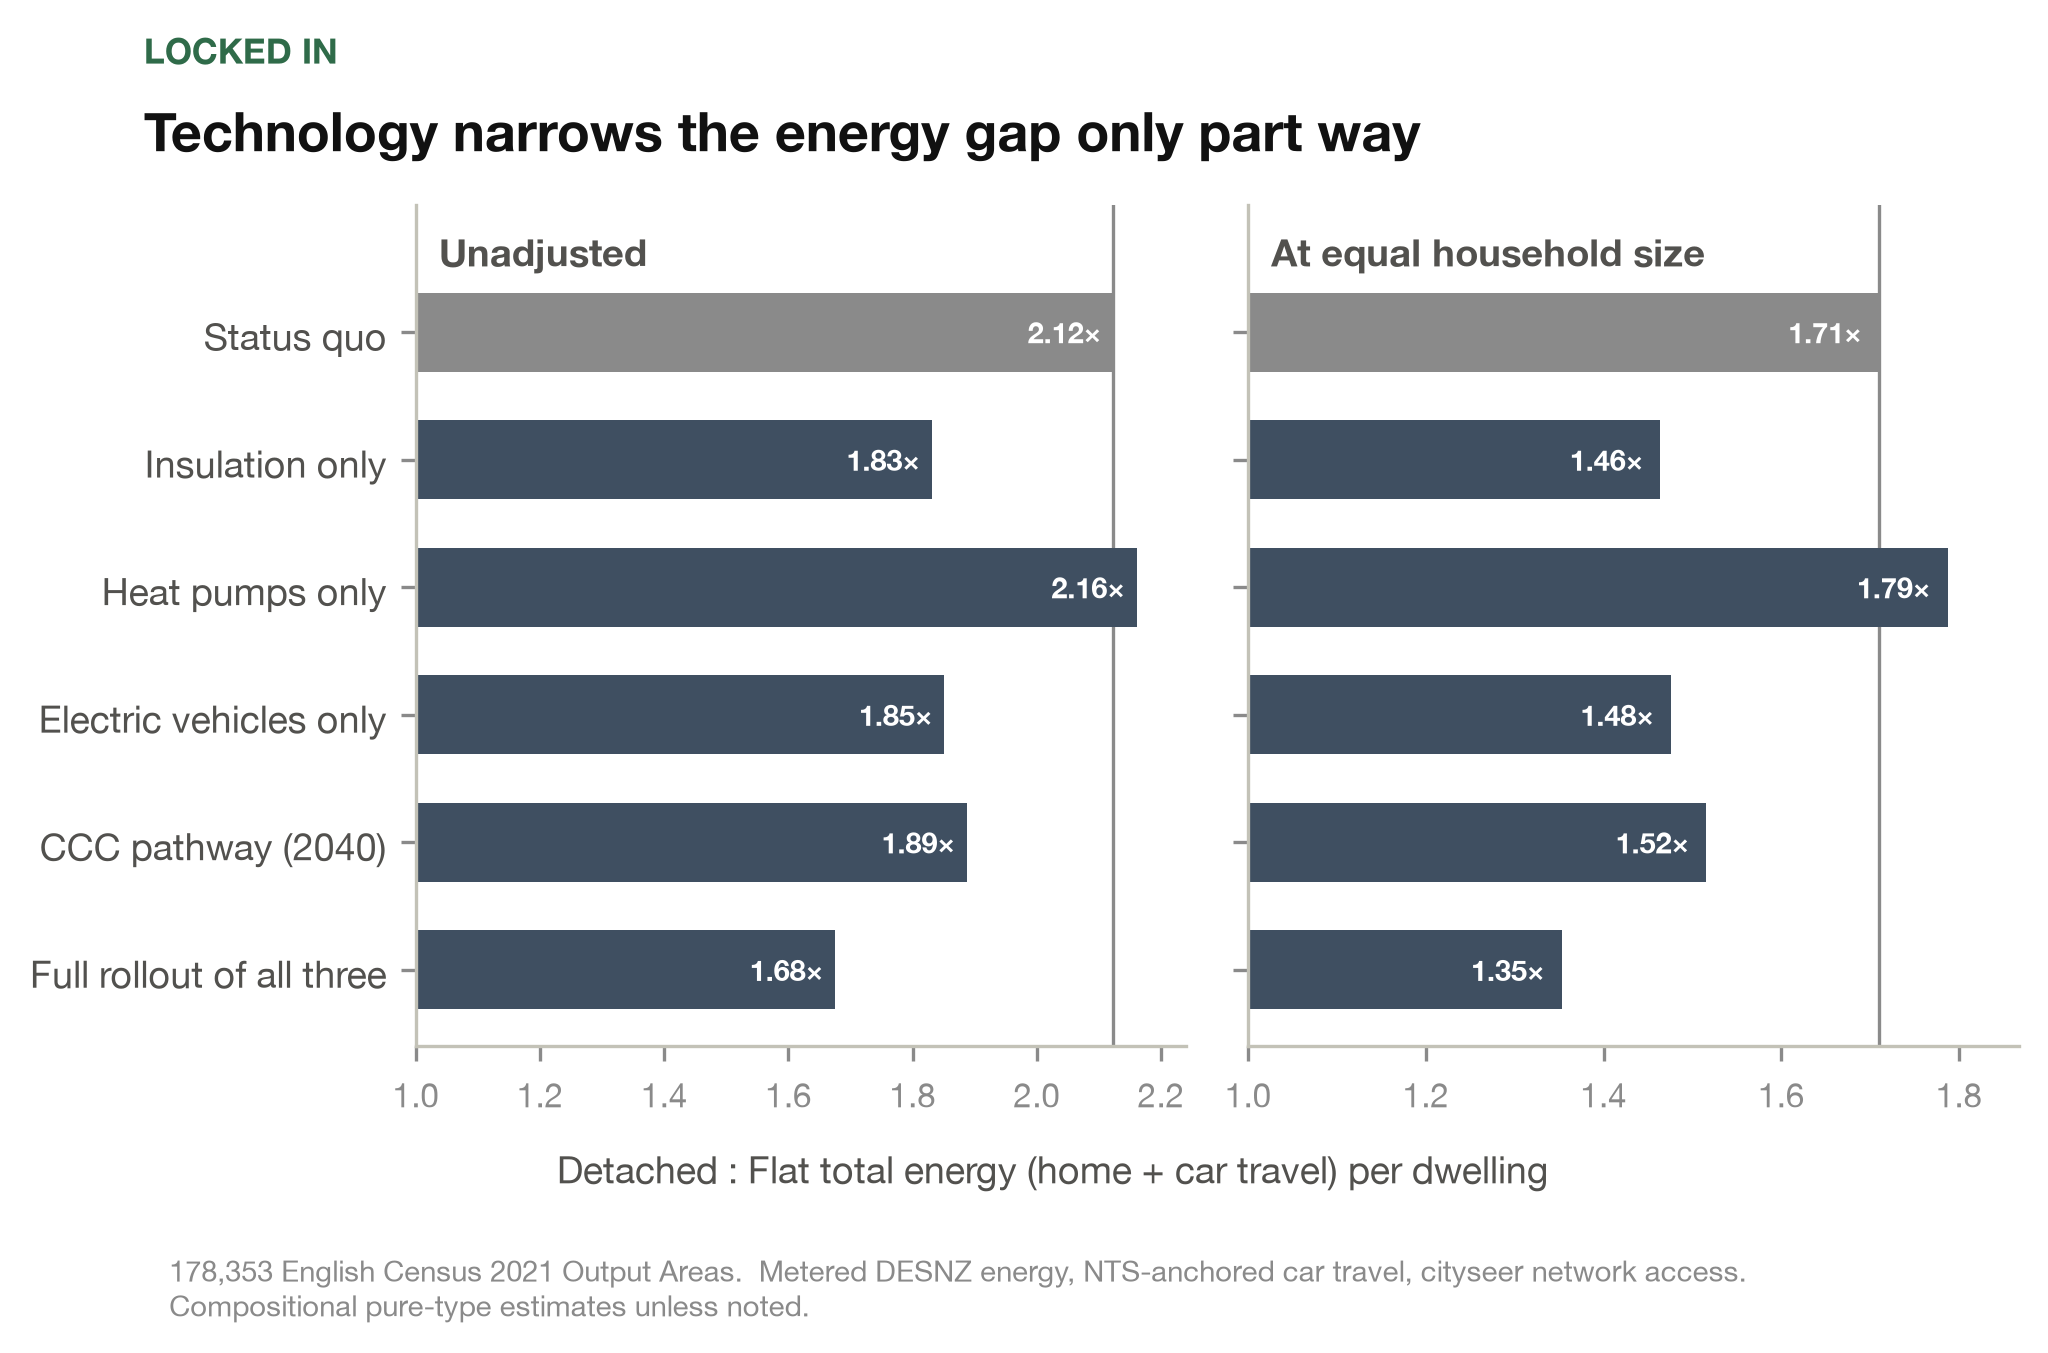
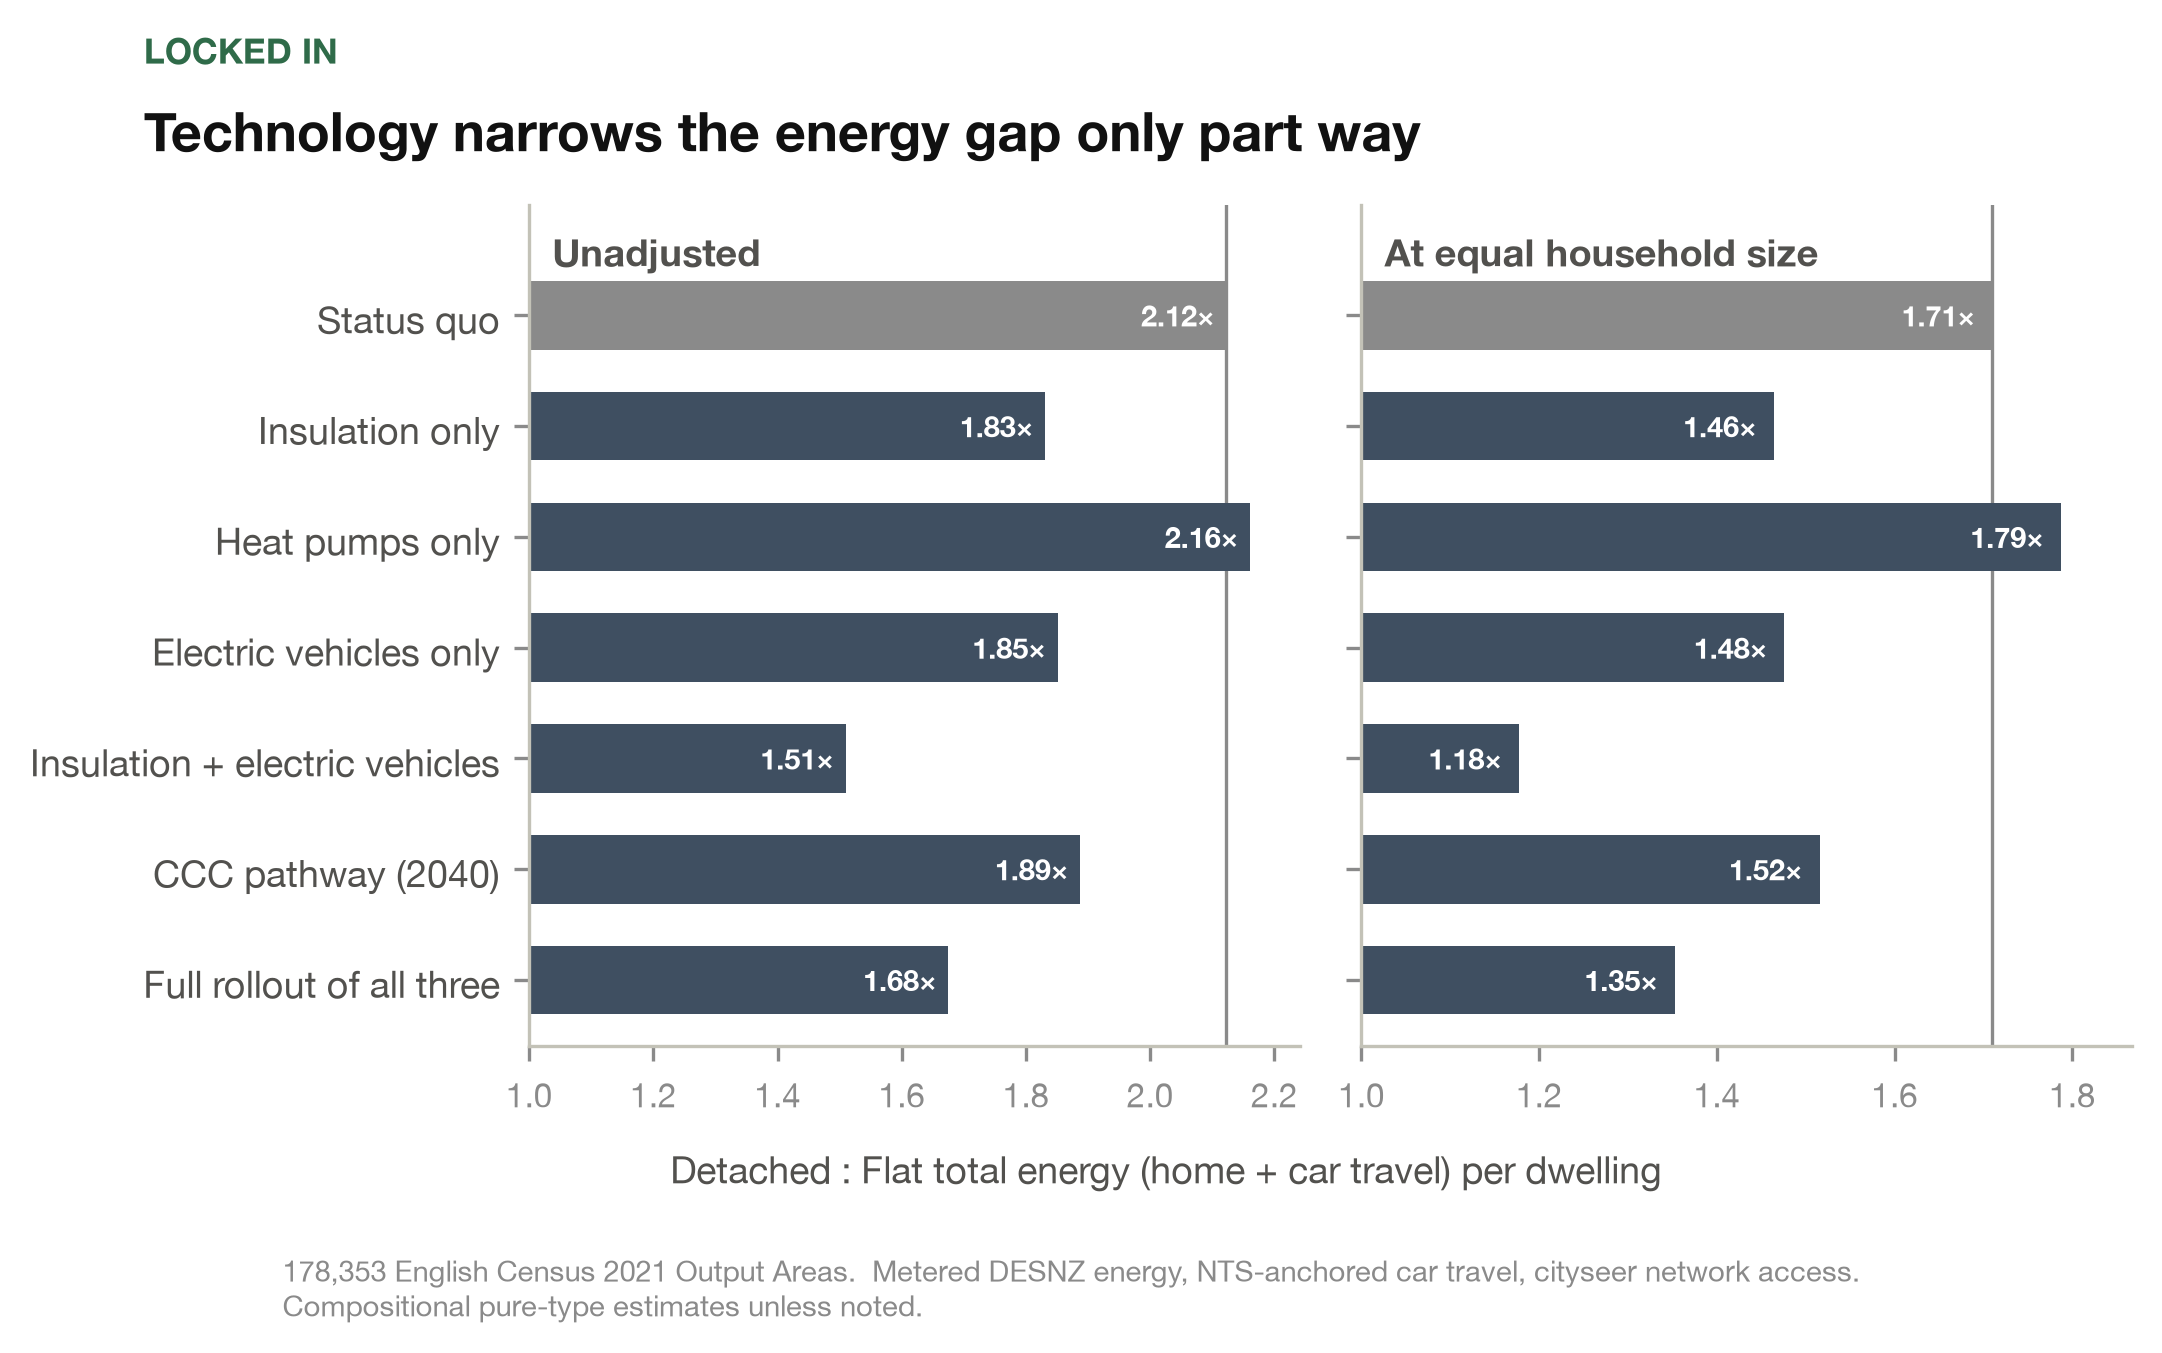
The fabric+EV lock-in bound joins the scenario ladder: new SCENARIOS row, figure rung, ED Table 2 row, and caption pointer

diff --git a/paper/latex/main.tex b/paper/latex/main.tex
@@ -132,7 +132,7 @@ The headline lock-in bound is read at fully deployed insulation plus vehicle ele
 \begin{figure}[t]
   \centering
   \includegraphics[width=\textwidth]{fig8_scenarios}
-  \caption{\textbf{The energy gap under each decarbonisation measure.} The detached:flat total energy gap under each measure; the on-foot access gap, \nepiwalkAmenRound$\times$, is unchanged in every scenario. Bars show compositional pure-type ratios, unadjusted (left) and at equal household size (right); the vertical line marks each panel's status-quo gap. Heat pumps alone widen the gap: they cut home energy, on which the gap is smaller, near-uniformly, leaving the larger travel gap to dominate the total. The headline lock-in bound, insulation plus electrification without heat pumps, is \nepilockinGap$\times$ and is not shown as a bar.}
+  \caption{\textbf{The energy gap under each decarbonisation measure.} The detached:flat total energy gap under each measure; the on-foot access gap, \nepiwalkAmenRound$\times$, is unchanged in every scenario. Bars show compositional pure-type ratios, unadjusted (left) and at equal household size (right); the vertical line marks each panel's status-quo gap. Heat pumps alone widen the gap: they cut home energy, on which the gap is smaller, near-uniformly, leaving the larger travel gap to dominate the total. The insulation-plus-electric-vehicles rung, both levers in full without heat pumps, is the headline lock-in bound of \nepilockinGap$\times$.}
   \label{fig:scenarios}
 \end{figure}
 

diff --git a/stats/scenarios.py b/stats/scenarios.py
@@ -72,6 +72,8 @@ SCENARIOS: list[tuple[str, str, float, float]] = [
     ("Fabric only (100%)", "fabric", 1.0, 0.0),
     ("Heat pumps only (100%)", "hp", 1.0, 0.0),
     ("EVs only (100%)", "none", 0.0, 1.0),
+    # The headline lock-in bound (lock_in.py): both demand-side levers, no heat pumps.
+    ("Fabric + EVs (100%)", "fabric", 1.0, 1.0),
     ("CCC Balanced Pathway 2040", "fabric+hp", HEAT_UPTAKE_2040, EV_UPTAKE_2040),
     ("Full rollout (100%)", "fabric+hp", 1.0, 1.0),
 ]
@@ -237,6 +239,7 @@ def main() -> None:
         "Fabric only (100%)": ("fabricGap", "Insulation only (100\\%)"),
         "Heat pumps only (100%)": ("hpGap", "Heat pumps only (100\\%)"),
         "EVs only (100%)": ("evGap", "Electric vehicles only (100\\%)"),
+        "Fabric + EVs (100%)": ("fabricEvGap", "Insulation + electric vehicles (100\\%)"),
         "CCC Balanced Pathway 2040": ("cccGap", "CCC Balanced Pathway 2040"),
         "Full rollout (100%)": ("fullGap", "Full rollout (100\\%)"),
     }

diff --git a/paper/latex/tab_scenarios.tex b/paper/latex/tab_scenarios.tex
@@ -8,6 +8,7 @@ Status quo & 2.12$\times$ [2.01, 2.24] & 1.71$\times$ [1.62, 1.81] \\
 Insulation only (100\%) & 1.83$\times$ [1.75, 1.91] & 1.46$\times$ [1.39, 1.55] \\
 Heat pumps only (100\%) & 2.16$\times$ [2.08, 2.25] & 1.79$\times$ [1.70, 1.88] \\
 Electric vehicles only (100\%) & 1.85$\times$ [1.72, 1.99] & 1.48$\times$ [1.37, 1.59] \\
+Insulation + electric vehicles (100\%) & 1.51$\times$ [1.43, 1.59] & 1.18$\times$ [1.11, 1.25] \\
 CCC Balanced Pathway 2040 & 1.89$\times$ [1.80, 1.98] & 1.52$\times$ [1.44, 1.59] \\
 Full rollout (100\%) & 1.68$\times$ [1.62, 1.74] & 1.35$\times$ [1.29, 1.42] \\
 \botrule

diff --git a/stats/argument_figures.py b/stats/argument_figures.py
@@ -641,6 +641,7 @@ def scenario_ladder(cf: pd.DataFrame, confounds: list[str]) -> None:
         "Fabric only (100%)": "Insulation only",
         "Heat pumps only (100%)": "Heat pumps only",
         "EVs only (100%)": "Electric vehicles only",
+        "Fabric + EVs (100%)": "Insulation + electric vehicles",
         "CCC Balanced Pathway 2040": "CCC pathway (2040)",
         "Full rollout (100%)": "Full rollout of all three",
     }

diff --git a/paper/latex/numbers.tex b/paper/latex/numbers.tex
@@ -34,6 +34,8 @@
 \newcommand{\nepievGap}{1.85}
 \newcommand{\nepievGapCI}{1.72--1.99}
 \newcommand{\nepifabricClosed}{20}
+\newcommand{\nepifabricEvGap}{1.51}
+\newcommand{\nepifabricEvGapCI}{1.43--1.59}
 \newcommand{\nepifabricFactorMedian}{0.50}
 \newcommand{\nepifabricGap}{1.83}
 \newcommand{\nepifabricGapCI}{1.75--1.91}
